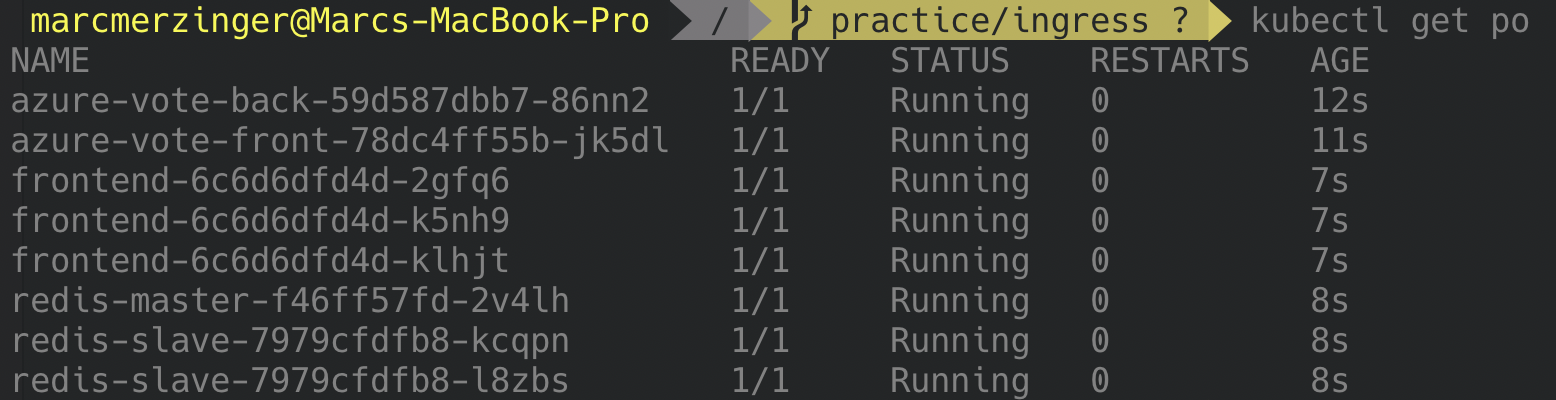
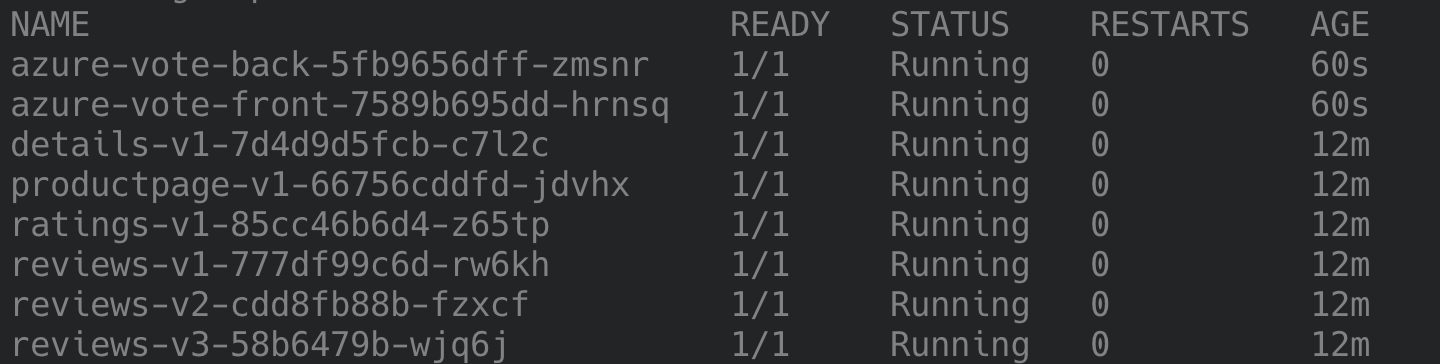
Switch to bookinfo app (#33)

diff --git a/practice/ingress/Readme.md b/practice/ingress/Readme.md
@@ -19,10 +19,10 @@ kubectl get po -n ingress-nginx
 kubectl get svc -n ingress-nginx ingress-nginx-controller -o=jsonpath="{.status.loadBalancer.ingress[0].ip}"
 ```
 
-2. Create the guestbook application
+2. Create the bookinfo application
 
 ```bash
-kubectl apply -f https://raw.githubusercontent.com/kubernetes/examples/master/guestbook/all-in-one/guestbook-all-in-one.yaml
+kubectl apply -f https://raw.githubusercontent.com/istio/istio/release-1.15/samples/bookinfo/platform/kube/bookinfo.yaml
 ```
 
 3. Create the Azure Voting app
@@ -46,12 +46,12 @@ Use the following resources to do so:
 
 - Check which services are used to access these applications (`kubectl get svc`)
 - Use these hosts for the ingress.yaml. Replace "IP" with the public IP provided by Step 1.
-  - Guestbook: guest-IP.nip.io (path: /)
+  - Guestbook: book-IP.nip.io (path: /)
   - Azure-Vote-App: vote-IP.nip.io (path: /)
   - For example: vote-20.101.26.235.nip.io
 - Create an ingress resource with the help of [Ingress Documentation](https://kubernetes.io/docs/concepts/services-networking/ingress/)
   - Use the following services and ports:
-    - Service: frontend, Port: 80
+    - Service: productpage, Port: 9080
     - Service: azure-vote-front, Port: 80
 
 5. Deploy the ingress spec
@@ -71,7 +71,7 @@ Congratulations! You app is successfully exposed to the web via your Ingress Con
 ## Cleanup
 
 ```bash
-kubectl delete -f https://raw.githubusercontent.com/kubernetes/examples/master/guestbook/all-in-one/guestbook-all-in-one.yaml
+kubectl delete -f https://raw.githubusercontent.com/istio/istio/release-1.15/samples/bookinfo/platform/kube/bookinfo.yaml
 
 kubectl delete -f https://raw.githubusercontent.com/Azure-Samples/azure-voting-app-redis/master/azure-vote-all-in-one-redis.yaml
 
@@ -83,6 +83,6 @@ kubectl delete -f ingress.yaml
 ## Licensing Notes
 
 This practice task uses the following two applications to demonstrate the ingress concept of Kubernetes:
-- [Guestbook](https://github.com/kubernetes/examples/blob/master/guestbook/all-in-one/guestbook-all-in-one.yaml) application from the [Kubernetes examples](https://github.com/kubernetes/examples) repository. It is licensed under [Apache License 2.0](https://github.com/kubernetes/examples/blob/master/LICENSE).
+- [Bookinfo](https://github.com/istio/istio/tree/release-1.15/samples/bookinfo/platform/kube) application from the [Istio](https://github.com/istio/istio/tree/master) repository. It is licensed under [Apache License 2.0](https://github.com/istio/istio/blob/master/LICENSE).
 - [Azure Voting App](https://github.com/Azure-Samples/azure-voting-app-redis/blob/master/azure-vote-all-in-one-redis.yaml) application from the [Azure Voting App](https://github.com/Azure-Samples/azure-voting-app-redis) repository. It is licensed under [MIT License](https://github.com/Azure-Samples/azure-voting-app-redis/blob/master/LICENSE).
 

diff --git a/demos/ingress/Readme.md b/demos/ingress/Readme.md
@@ -1,7 +1,7 @@
 # Ingress Demo
 
 This demo uses the following two applications to demonstrate the ingress concept of Kubernetes:
-- [Guestbook](https://github.com/kubernetes/examples/blob/master/guestbook/all-in-one/guestbook-all-in-one.yaml) application from the [Kubernetes examples](https://github.com/kubernetes/examples) repository. It is licensed under [Apache License 2.0](https://github.com/kubernetes/examples/blob/master/LICENSE).
+- [Bookinfo](https://github.com/istio/istio/tree/release-1.15/samples/bookinfo/platform/kube) application from the [Istio](https://github.com/istio/istio/tree/master) repository. It is licensed under [Apache License 2.0](https://github.com/istio/istio/blob/master/LICENSE).
 - [Azure Voting App](https://github.com/Azure-Samples/azure-voting-app-redis/blob/master/azure-vote-all-in-one-redis.yaml) application from the [Azure Voting App](https://github.com/Azure-Samples/azure-voting-app-redis) repository. It is licensed under [MIT License](https://github.com/Azure-Samples/azure-voting-app-redis/blob/master/LICENSE).
 
 ## Setup
@@ -12,9 +12,9 @@ It is a minimal demo, hence no namespace etc. are used. Resources are deployed a
 ```bash
 kubectl apply -f https://raw.githubusercontent.com/kubernetes/ingress-nginx/controller-v1.0.0/deploy/static/provider/cloud/deploy.yaml
 ```
-2. Create the guestbook application
+2. Create the bookinfo application
 ```bash
-kubectl apply -f https://raw.githubusercontent.com/kubernetes/examples/master/guestbook/all-in-one/guestbook-all-in-one.yaml
+kubectl apply -f https://raw.githubusercontent.com/istio/istio/release-1.15/samples/bookinfo/platform/kube/bookinfo.yaml
 ```
 3. Create the Azure Voting app
 ```bash
@@ -35,7 +35,7 @@ kubectl apply -f ingress.yaml
 ## Cleanup
 
 ```bash
-kubectl delete -f https://raw.githubusercontent.com/kubernetes/examples/master/guestbook/all-in-one/guestbook-all-in-one.yaml
+kubectl delete -f https://raw.githubusercontent.com/istio/istio/release-1.15/samples/bookinfo/platform/kube/bookinfo.yaml
 
 kubectl delete -f https://raw.githubusercontent.com/Azure-Samples/azure-voting-app-redis/master/azure-vote-all-in-one-redis.yaml
 
